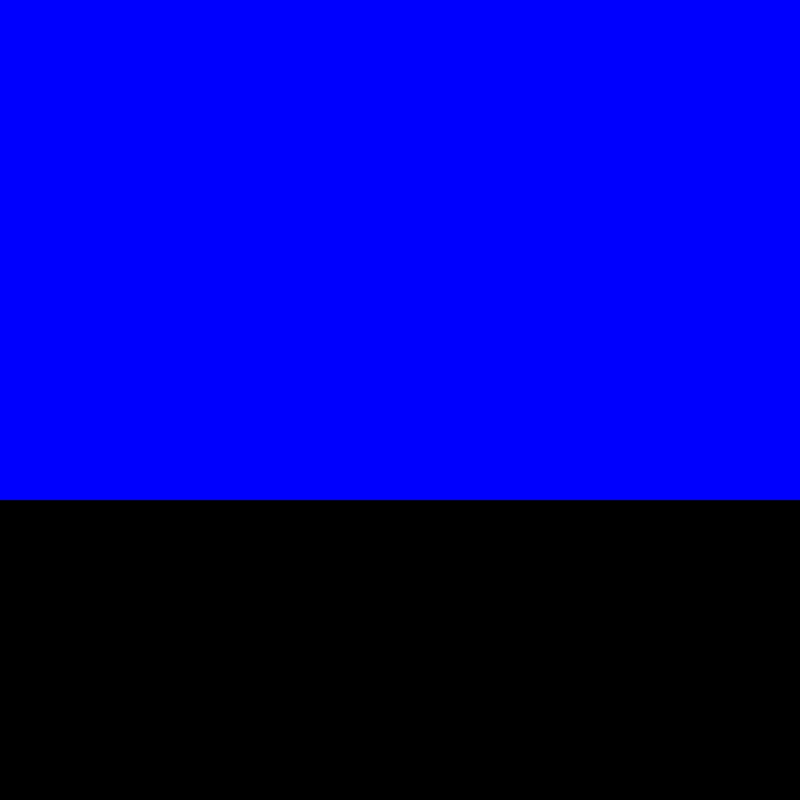
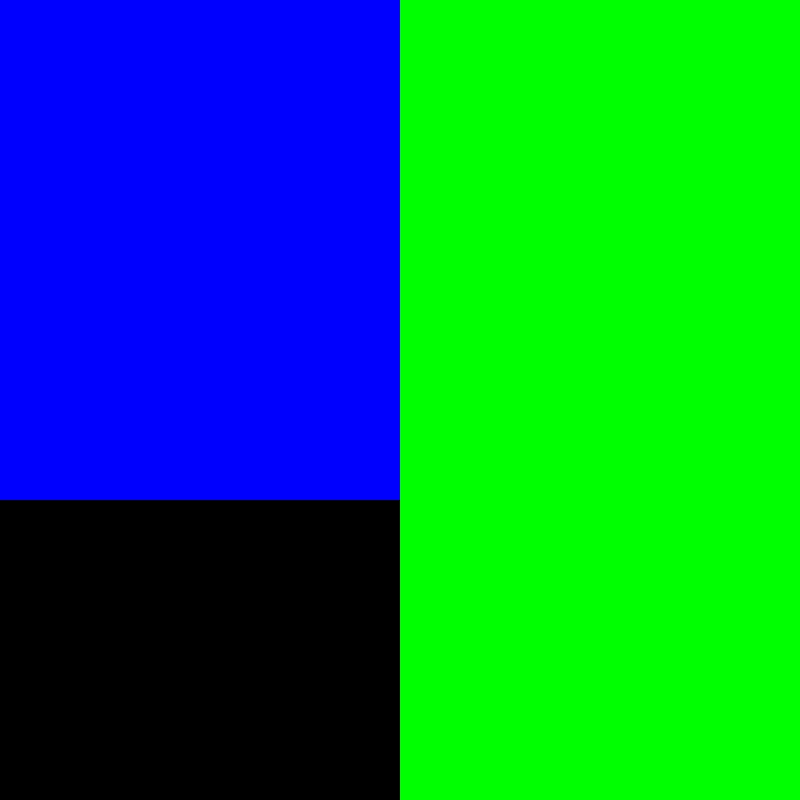
dubug

diff --git a/server.js b/server.js
@@ -2,7 +2,7 @@ const http = require('http')
 const server = http.createServer((req, res) => {
     res.setHeader('Content-Type', 'text/html');
     res.setHeader('X-Foo', 'bar');
-    res.writeHead(200, { 'Content-Type': 'text/plain' });
+    res.writeHead(200, { 'Content-Type': 'text/html' });
     // writeHead 优先级高于setHeader，并且writeHead只能用一次;
     res.end(`
 <html>
@@ -14,7 +14,7 @@ const server = http.createServer((req, res) => {
                 background-color: rgb(50, 156, 200);
             }
             .item-1 {
-                width: 800px;
+                width: 400px;
                 height: 500px;
                 align-self: center;
                 background-color: rgb(0, 0, 255);

diff --git a/parser.js b/parser.js
@@ -138,9 +138,9 @@ function emit(token) {
       if (top.tagName === 'style') {
         addCssRules(top.children[0].content)
       }
-      layout(top)
       stack.pop()
     }
+    layout(top)
     currentTextNode = null
   } else if (token.type === 'text') {
     if (currentTextNode === null) {
